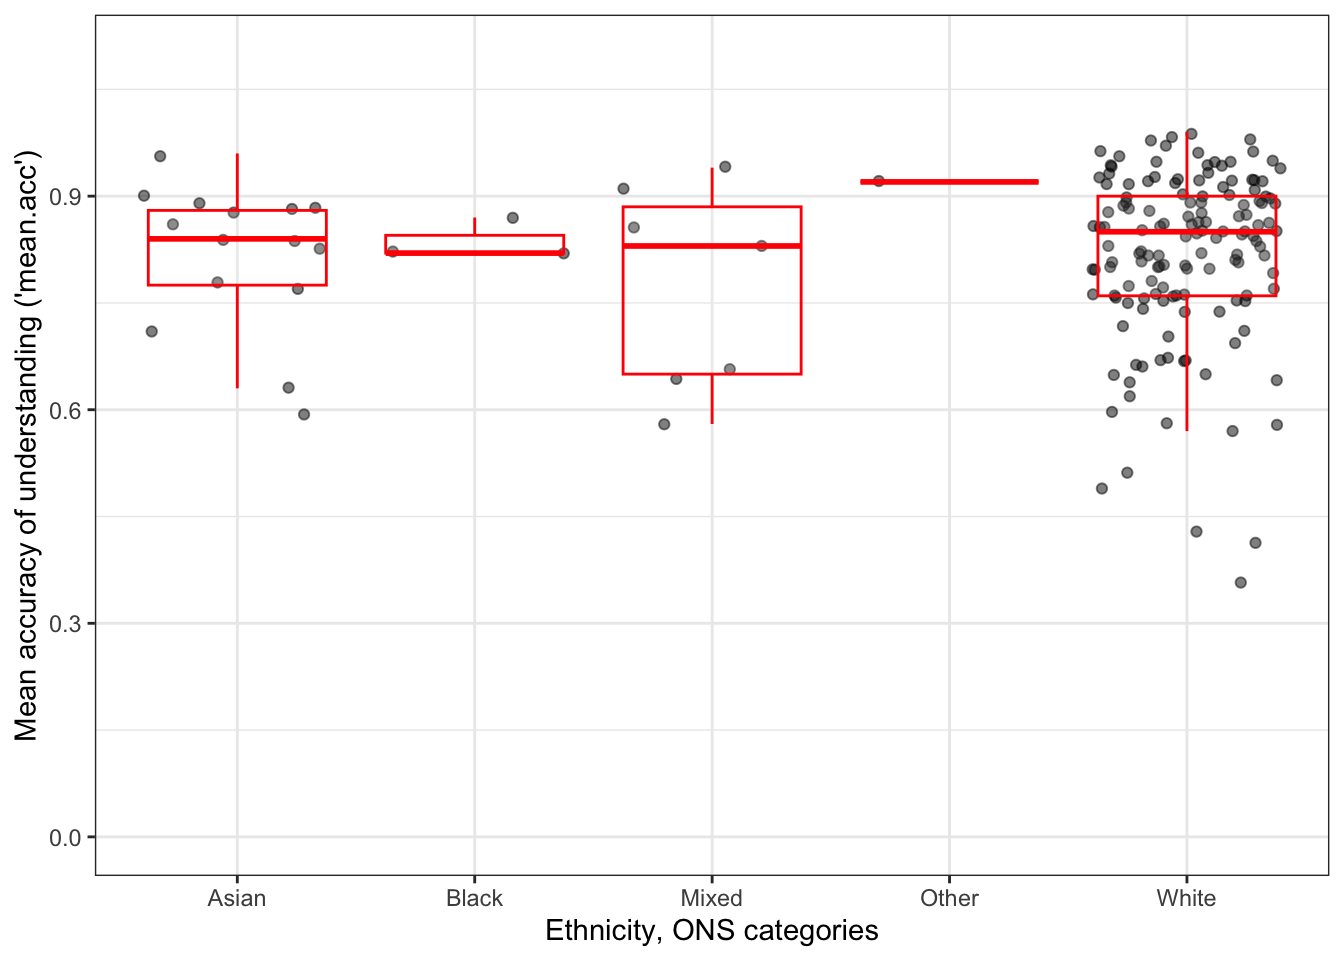
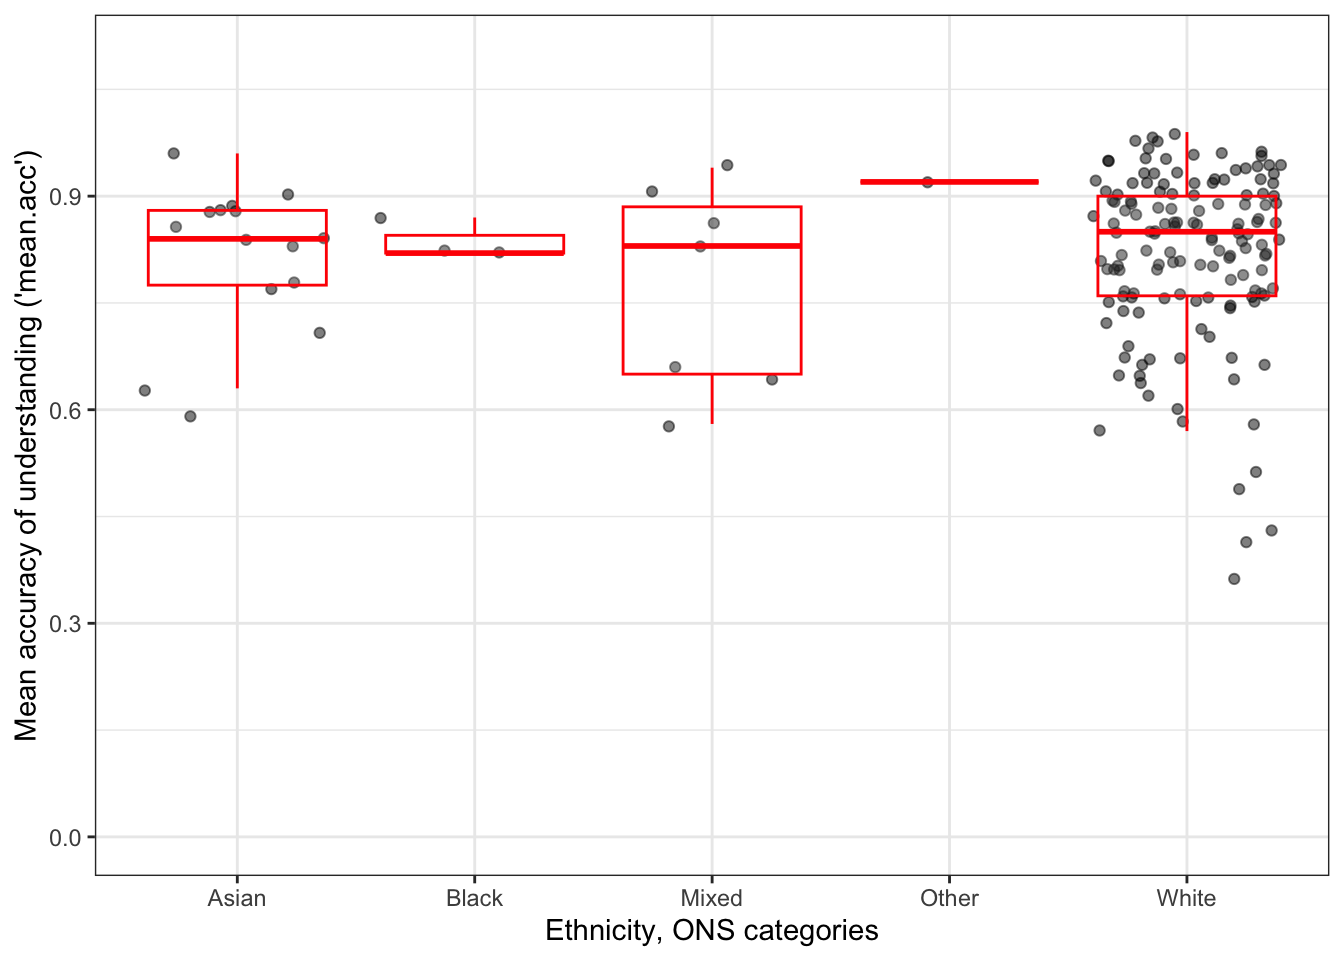
-- test check problem with w19 data direct link

diff --git a/docs/PSYC122/Week19.html b/docs/PSYC122/Week19.html
@@ -764,7 +764,7 @@ Important
 </ul>
 <p>Get the <code>all.data.csv</code> data:</p>
 <div class="cell">
-<div class="code-copy-outer-scaffold"><div class="sourceCode cell-code" id="cb1"><pre class="sourceCode r code-with-copy"><code class="sourceCode r"><span id="cb1-1"><a href="#cb1-1" aria-hidden="true" tabindex="-1"></a><span class="fu">download.file</span>(<span class="st">"https://github.com/lu-psy-r/statistics_for_psychologists/blob/main/PSYC122/data/week19/all.data.csv?raw=true"</span>, <span class="at">destfile =</span> <span class="st">"all.data.csv"</span>)</span></code></pre></div><button title="Copy to Clipboard" class="code-copy-button"><i class="bi"></i></button></div>
+<div class="code-copy-outer-scaffold"><div class="sourceCode cell-code" id="cb1"><pre class="sourceCode r code-with-copy"><code class="sourceCode r"><span id="cb1-1"><a href="#cb1-1" aria-hidden="true" tabindex="-1"></a><span class="fu">download.file</span>(<span class="st">"https://github.com/lu-psy-r/statistics_for_psychologists/blob/main/PSYC122/data/week18/study-one-general-participants.csv?raw=true"</span>, <span class="at">destfile =</span> <span class="st">"all.data.csv"</span>)</span></code></pre></div><button title="Copy to Clipboard" class="code-copy-button"><i class="bi"></i></button></div>
 </div>
 </div>
 </div>
